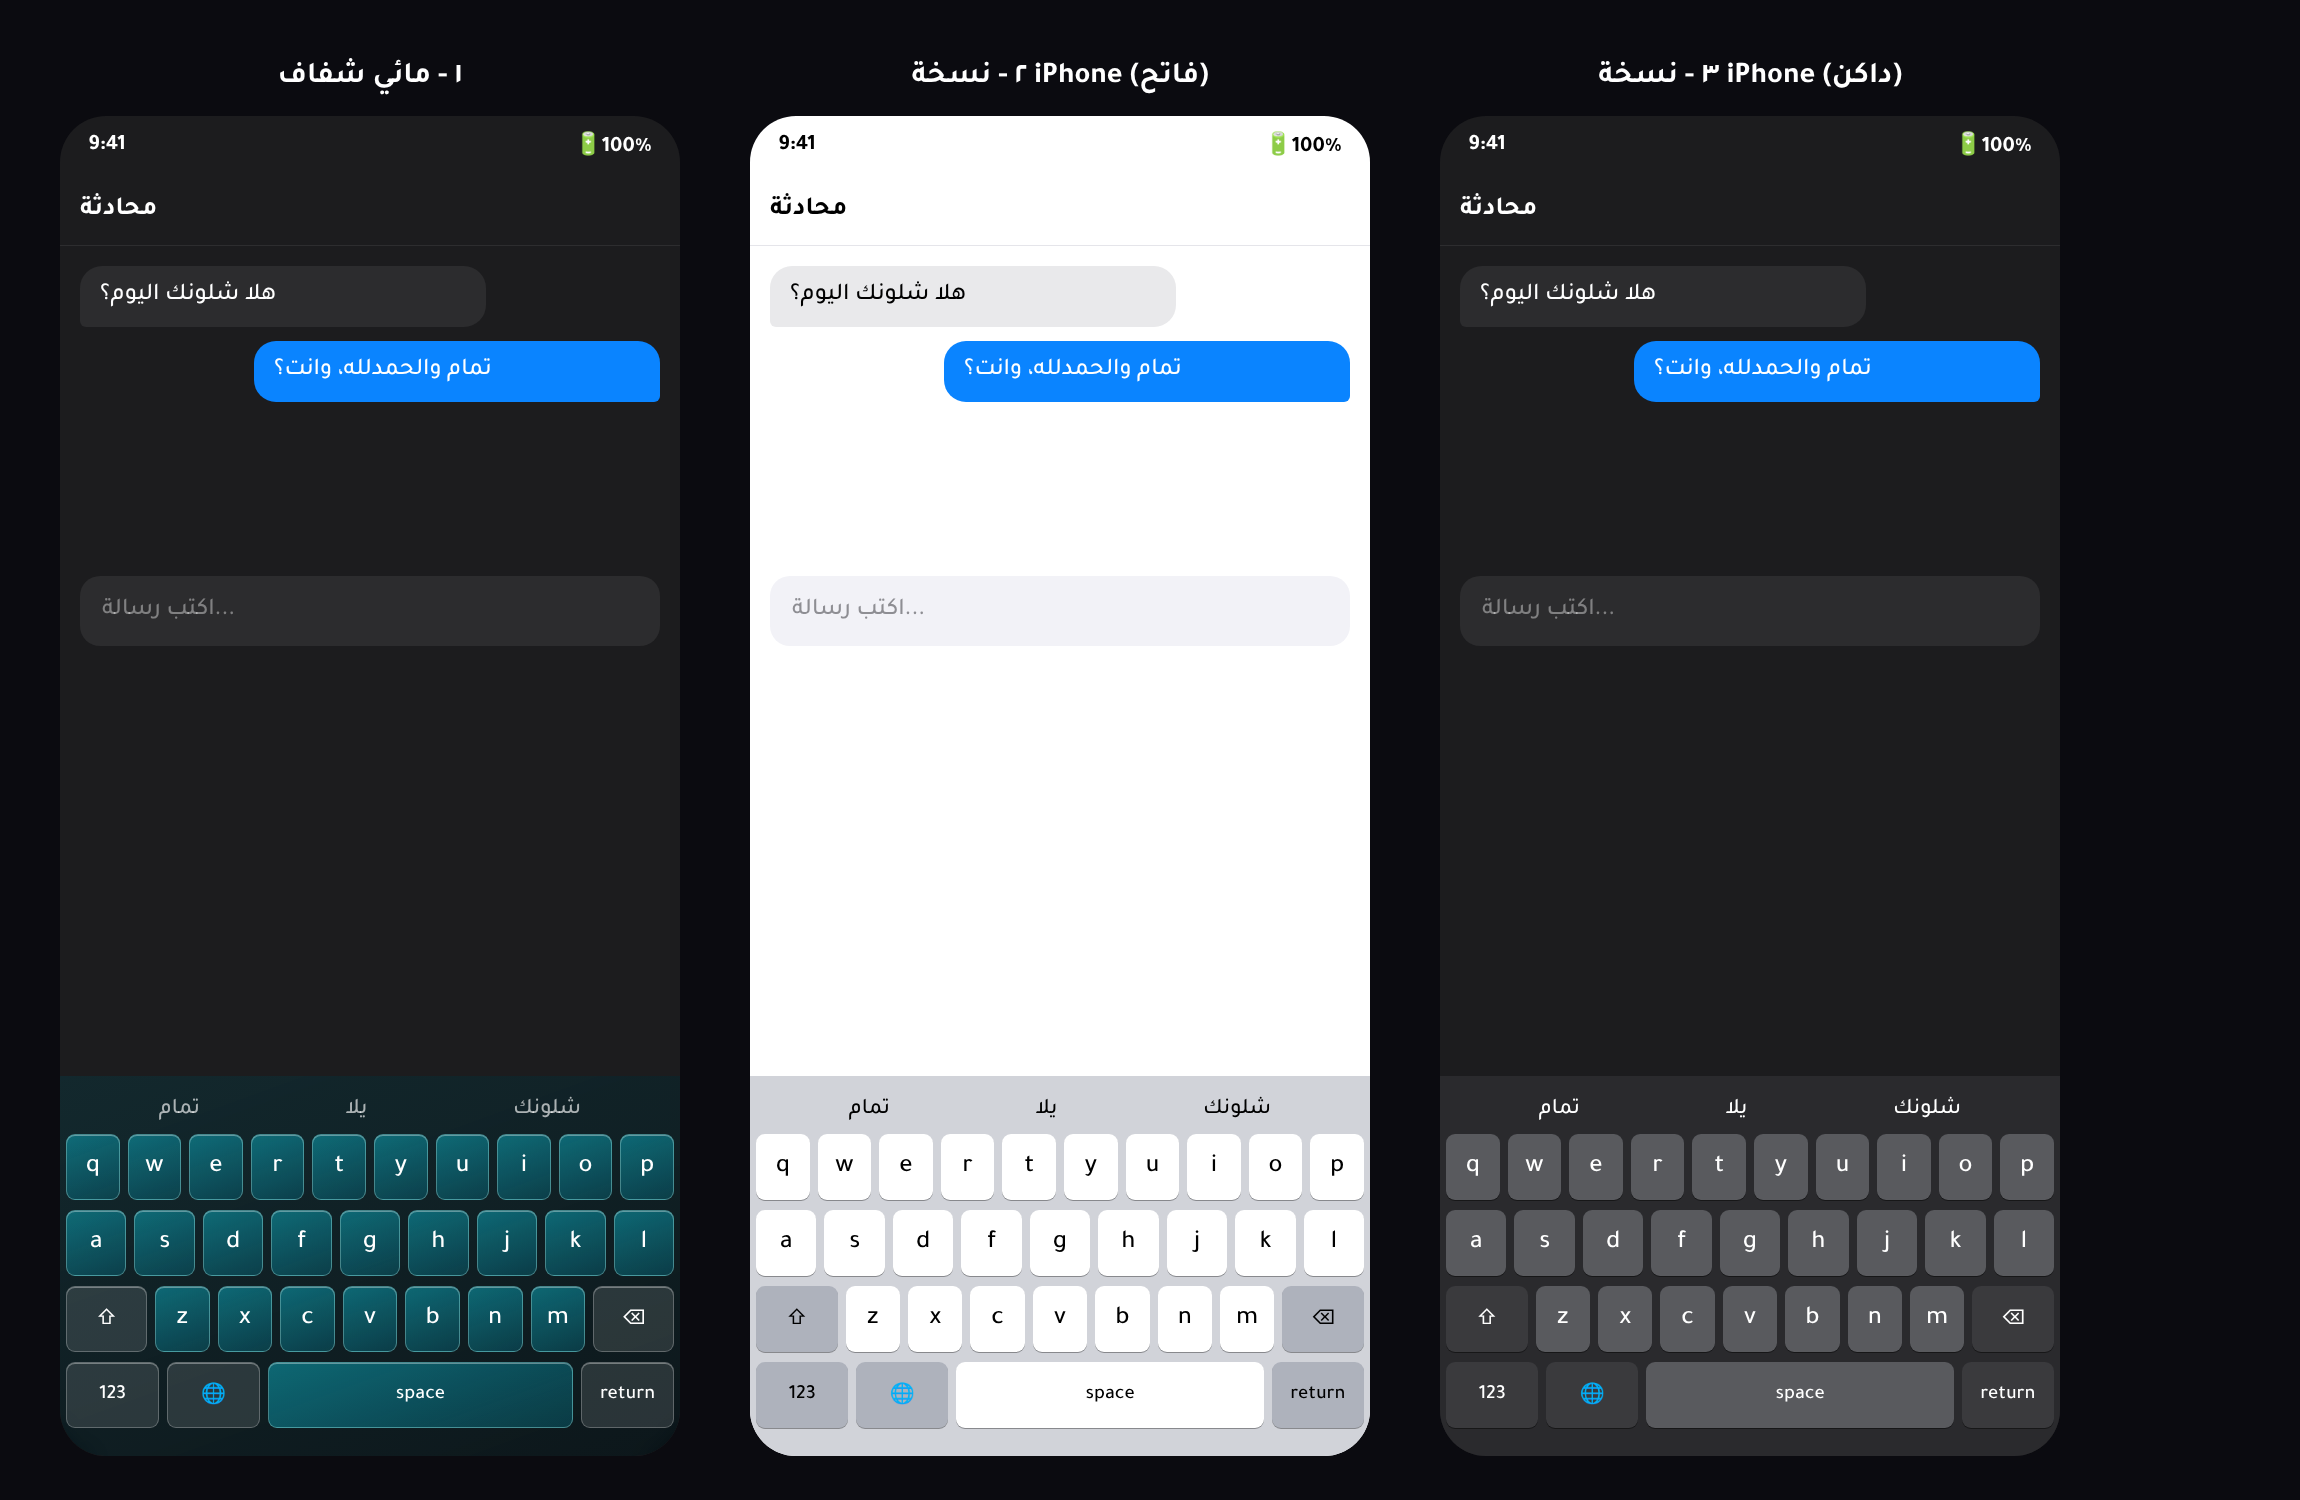
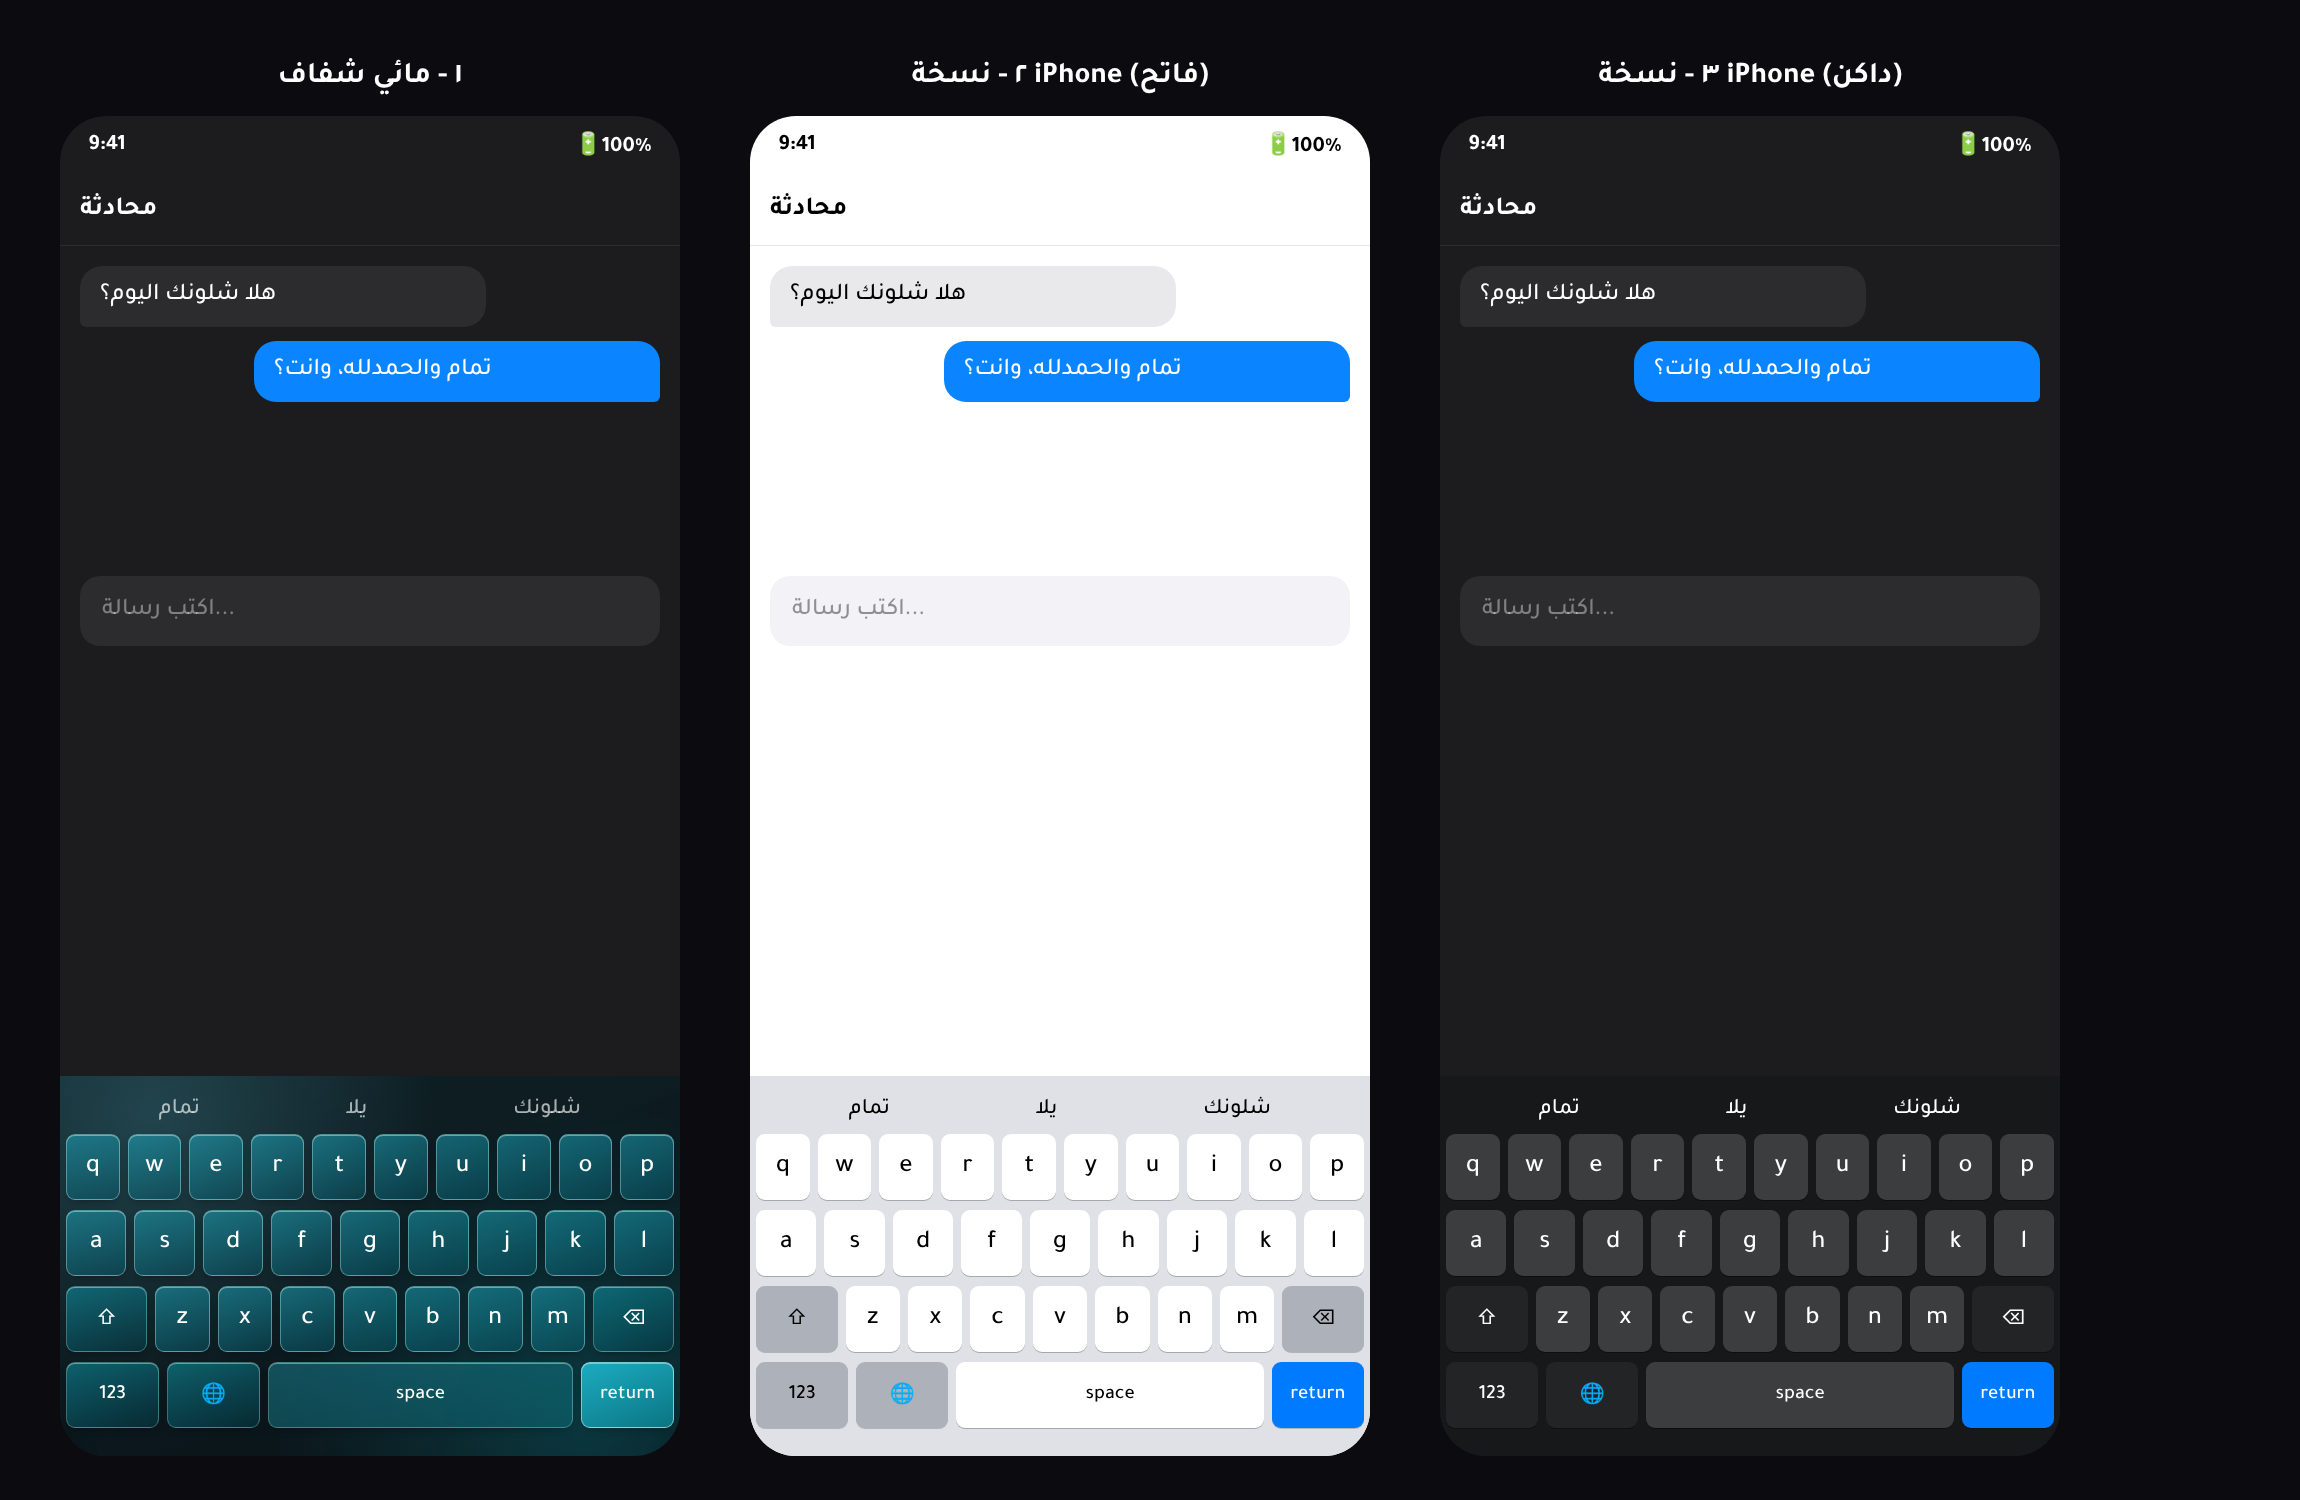
Keyboard mockups: 100% water style + sourced real iOS keyboard colors
- Water keyboard now fully water-toned everywhere (no plain white/gray
  keys left), with layered aqua gradients.
- iOS light/dark key colors replaced with values sourced from Apple's
  documented systemBlue (#007AFF action color) and a reverse-engineered
  open-source iOS-keyboard-theme reference, instead of guessed hex.
- Added the real blue return/enter key (same hue in both light and
  dark, matching Apple's actual keyboard).

Claude-Session: https://claude.ai/code/session_019uqjmh2zsJCzjD8BR3oFuT

diff --git a/design/keyboard/styles.html b/design/keyboard/styles.html
@@ -24,25 +24,38 @@ body{background:#0b0b10}
 .key.space{flex:5}
 .key.small{font-size:20px}
 
-/* Water keyboard */
-.kb.water{background:linear-gradient(160deg,rgba(6,60,70,.4),rgba(3,20,25,.6));backdrop-filter:blur(10px)}
-.kb.water .key{background:linear-gradient(160deg,rgba(14,165,183,.55),rgba(6,110,130,.4));border:1px solid rgba(180,255,250,.35);color:#fff;box-shadow:inset 0 1px 0 rgba(255,255,255,.35)}
-.kb.water .key.wide{background:rgba(255,255,255,.12);border:1px solid rgba(255,255,255,.25)}
+/* Water keyboard — مائي 100%: كل عنصر بتدرجات مائية فقط، بدون أي لون غريب */
+.kb.water{
+  background:
+    radial-gradient(circle at 15% 10%, rgba(120,230,255,.18) 0%, transparent 45%),
+    radial-gradient(circle at 85% 90%, rgba(14,165,183,.25) 0%, transparent 50%),
+    linear-gradient(160deg, rgba(5,40,48,.55), rgba(2,14,18,.7));
+  backdrop-filter:blur(14px) saturate(1.3);
+}
+.kb.water .key{background:linear-gradient(160deg,rgba(34,211,238,.4),rgba(6,110,130,.35));border:1px solid rgba(180,255,250,.4);color:#fff;box-shadow:inset 0 1px 0 rgba(255,255,255,.4),0 4px 10px -4px rgba(0,0,0,.4)}
+.kb.water .key.wide{background:linear-gradient(160deg,rgba(14,165,183,.5),rgba(3,70,85,.4));border:1px solid rgba(180,255,250,.3)}
+.kb.water .key.space{background:linear-gradient(160deg,rgba(34,211,238,.3),rgba(14,165,183,.25));border:1px solid rgba(180,255,250,.3)}
 
-/* iOS light */
-.kb.ioslight{background:#d1d3d9}
-.kb.ioslight .key{background:#fff;color:#000;box-shadow:0 1px 0 rgba(0,0,0,.35)}
-.kb.ioslight .key.wide{background:#aeb2bc;color:#000}
+/* iOS light — قيم حقيقية موثّقة (نظام الألوان الديناميكي لأبل + مرجع فتح مصدر لثيمات كيبورد iOS) */
+.kb.ioslight{background:#dfe1e6}
+.kb.ioslight .key{background:#fff;color:#000;box-shadow:0 1px 0 rgba(0,0,0,.25)}
+.kb.ioslight .key.wide{background:#adb1ba;color:#000;box-shadow:0 1px 0 rgba(0,0,0,.2)}
+.kb.ioslight .key.space{background:#fff;color:#000;box-shadow:0 1px 0 rgba(0,0,0,.25)}
 
 /* iOS dark */
-.kb.iosdark{background:#2a2a2d}
-.kb.iosdark .key{background:#595a5e;color:#fff;box-shadow:0 1px 0 rgba(0,0,0,.45)}
-.kb.iosdark .key.wide{background:#3a3a3d;color:#fff}
+.kb.iosdark{background:#17181a}
+.kb.iosdark .key{background:#3c3d3f;color:#fff;box-shadow:0 1px 0 rgba(0,0,0,.4)}
+.kb.iosdark .key.wide{background:#232426;color:#fff;box-shadow:0 1px 0 rgba(0,0,0,.3)}
+.kb.iosdark .key.space{background:#3c3d3f;color:#fff;box-shadow:0 1px 0 rgba(0,0,0,.4)}
 
 .predict{height:48px;display:flex;align-items:center;justify-content:space-around;padding:0 20px;font-size:22px}
 .kb.water .predict{color:rgba(255,255,255,.65)}
 .kb.ioslight .predict{color:#000}
 .kb.iosdark .predict{color:#fff}
+
+/* زر الإدخال Return: أزرق النظام الحقيقي #007AFF، نفس اللون بالفاتح والداكن */
+.kb.ioslight .key.enter, .kb.iosdark .key.enter{background:#007aff;color:#fff}
+.kb.water .key.enter{background:linear-gradient(160deg,rgba(34,211,238,.75),rgba(14,165,183,.6));border:1px solid rgba(220,255,252,.55);color:#fff}
 </style></head><body>
 <div class="sheet" id="root">
 
@@ -114,7 +127,7 @@ function buildKB(id, predictWords) {
   const last = document.createElement('div'); last.className='row';
   ['123','🌐'].forEach(k=>{ const d=document.createElement('div'); d.className='key wide small'; d.textContent=k; last.appendChild(d); });
   const space = document.createElement('div'); space.className='key space small'; space.textContent='space'; last.appendChild(space);
-  const ret = document.createElement('div'); ret.className='key wide small'; ret.textContent='return'; last.appendChild(ret);
+  const ret = document.createElement('div'); ret.className='key wide small enter'; ret.textContent='return'; last.appendChild(ret);
   kb.appendChild(last);
 }
 buildKB('kb1', ['تمام','يلا','شلونك']);
